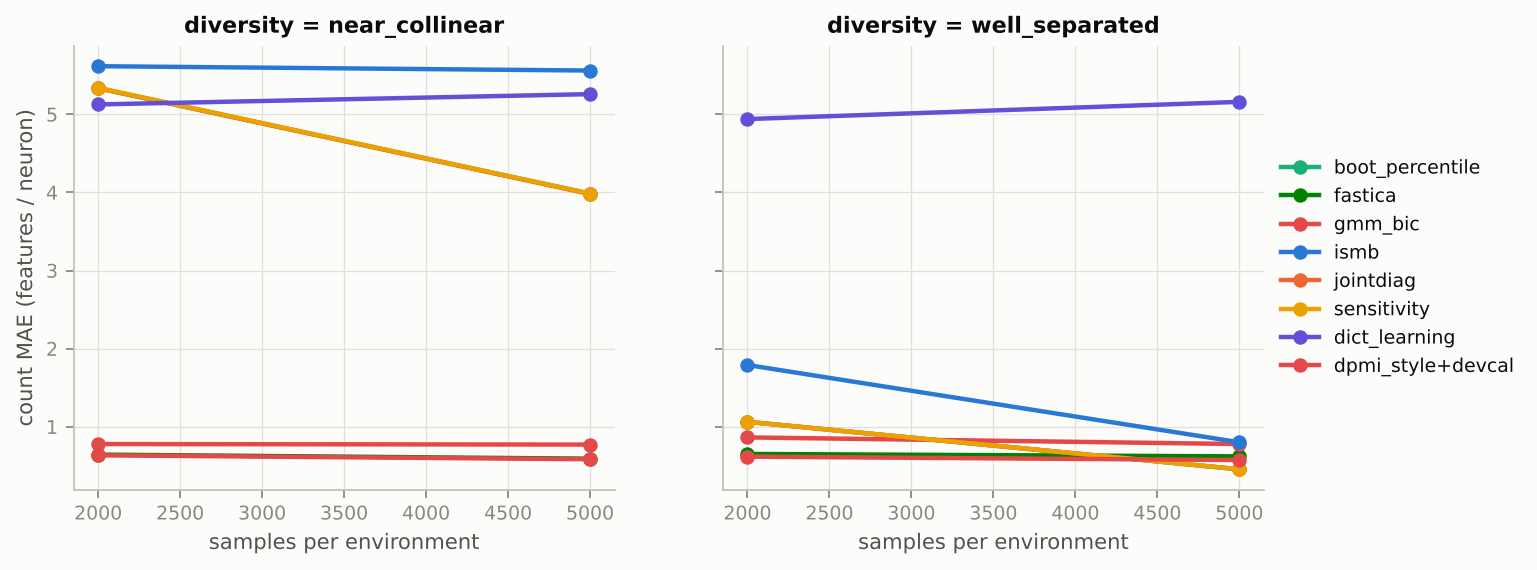
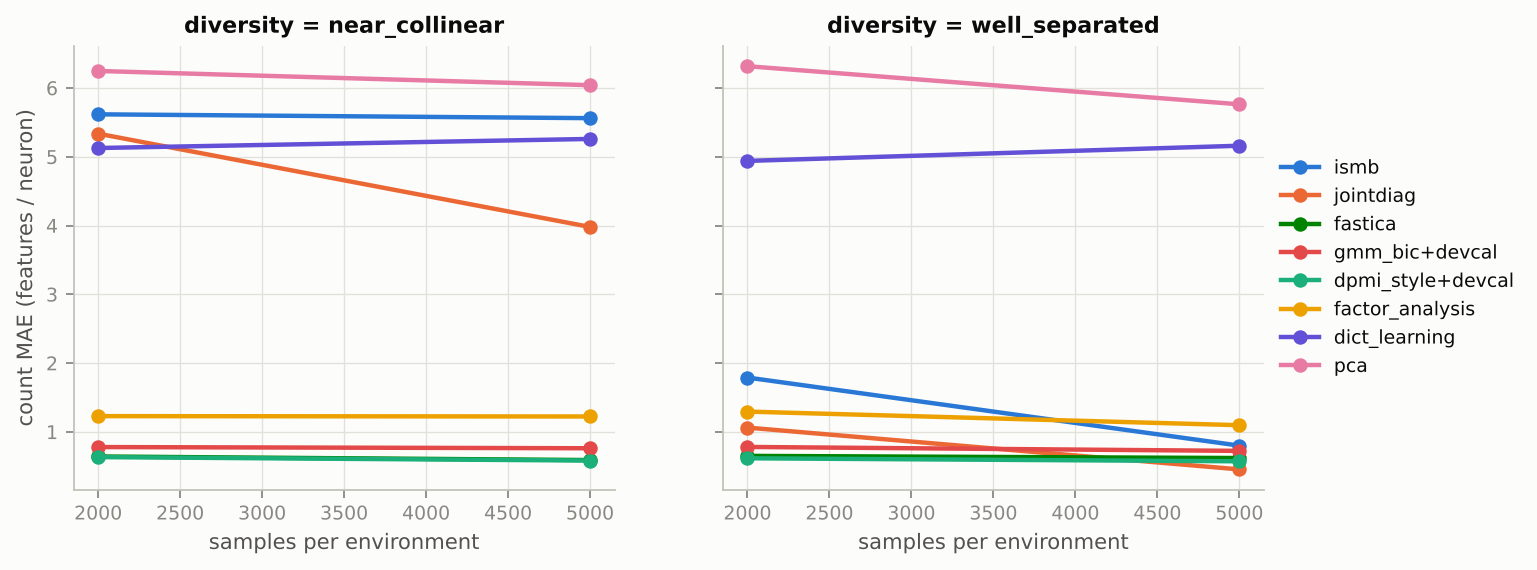
Figures: collision-free method colours, dashed sensitivity line, gzip row tables
Claude-Session: https://claude.ai/code/session_01Eh23LNGMGuEVsg8tLV7S5u

diff --git a/src/polyid/viz/style.py b/src/polyid/viz/style.py
@@ -22,17 +22,24 @@ AXIS = "#c3c2b7"
 
 CATEGORICAL = ["#2a78d6", "#eb6834", "#1baf7a", "#eda100", "#e87ba4", "#008300", "#6250d6", "#e34948"]
 
-# fixed method -> slot assignment (colour follows the entity)
+# fixed method -> slot assignment (colour follows the entity). Eight hues, more methods:
+# methods sharing a hue are never drawn in the same figure (interval figures vs point figures).
 METHOD_SLOT = {
     "ismb": 0,
     "jointdiag": 1,
-    "boot_percentile": 2,
-    "sensitivity": 3,
-    "ar_grid": 4,
+    "boot_percentile": 2,   # interval figures
+    "dpmi_style": 2,        # point figures
+    "sensitivity": 3,       # interval figures
+    "factor_analysis": 3,   # point figures
+    "ar_grid": 4,           # interval figures
+    "pca": 4,               # point figures
     "fastica": 5,
-    "topk_sae": 6,
+    "topk_sae": 6,          # toy figures
+    "dict_learning": 6,     # planted point figures
     "gmm_bic": 7,
 }
+POINT_FIGURE_METHODS = ["ismb", "jointdiag", "fastica", "gmm_bic+devcal", "dpmi_style+devcal",
+                        "factor_analysis", "dict_learning", "pca"]
 
 STATUS = {
     "identified": "#0ca30c",  # good

diff --git a/src/polyid/experiments/e1_planted_grid.py b/src/polyid/experiments/e1_planted_grid.py
@@ -47,8 +47,8 @@ def plot(agg: pd.DataFrame, out_dir: Path) -> list[str]:
 
     paths = []
     agg = agg.copy()
-    count_methods = [m for m in agg["method"].unique() if "@" not in m and agg.loc[agg.method == m, "mae"].notna().any()]
-    count_methods = sorted(count_methods, key=lambda m: (m not in style.METHOD_SLOT, m))[:8]
+    present = set(agg["method"])
+    count_methods = [m for m in style.POINT_FIGURE_METHODS if m in present]
     divs = sorted(agg["diversity"].dropna().unique()) if "diversity" in agg else [None]
     fig, axes = plt.subplots(1, len(divs), figsize=(4.8 * len(divs), 3.6), sharey=True, squeeze=False)
     for ax, dv in zip(axes[0], divs):
